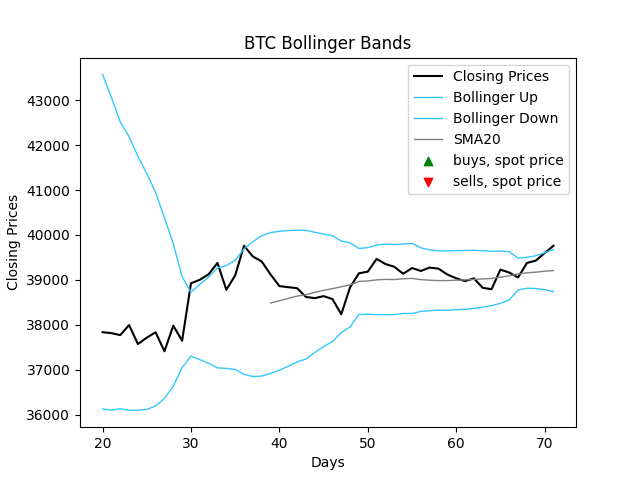
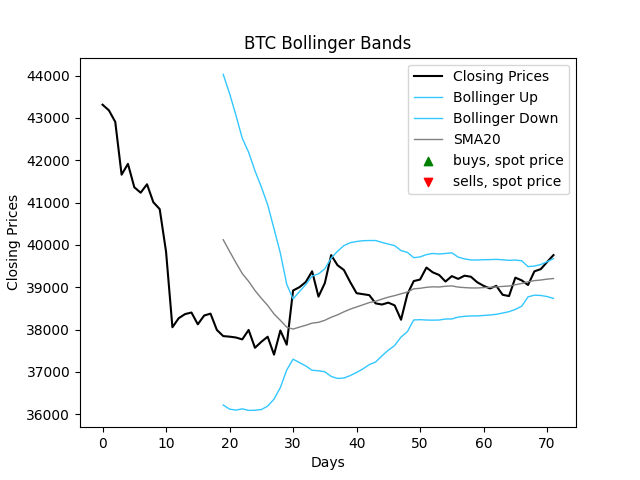
added functionality to store the image as a png in the file system.

diff --git a/tests.py b/tests.py
@@ -165,12 +165,12 @@ buys, sells, buy_price, sell_price = buySell(close, sma, bollinger_up, bollinger
 plt.title("BTC" + ' Bollinger Bands')
 plt.xlabel('Days')
 plt.ylabel('Closing Prices')
-plt.plot(close[20 :HISTORY], label='Closing Prices', c="#000000")
-plt.plot(bollinger_up[20 :HISTORY], label='Bollinger Up', c='#33C7FF', linewidth=1)
-plt.plot(bollinger_down[20 :HISTORY], label='Bollinger Down', c='#33C7FF', linewidth=1)
-plt.plot(get_sma(close[20 :HISTORY], RATE), label='SMA20', c='#808080', linewidth=1)
-plt.scatter(buys[20 :HISTORY], buy_price[20 :HISTORY], marker="^", c="g", label="buys, spot price") # add ^ smbols when on buy signal 
-plt.scatter(sells[20 :HISTORY], sell_price[20 :HISTORY], marker="v", c="r", label="sells, spot price") # add v smbols when on sell signal 
+plt.plot(close[:HISTORY], label='Closing Prices', c="#000000")
+plt.plot(bollinger_up[:HISTORY], label='Bollinger Up', c='#33C7FF', linewidth=1)
+plt.plot(bollinger_down[:HISTORY], label='Bollinger Down', c='#33C7FF', linewidth=1)
+plt.plot(get_sma(close[:HISTORY], RATE), label='SMA20', c='#808080', linewidth=1)
+plt.scatter(buys[:HISTORY], buy_price[:HISTORY], marker="^", c="g", label="buys, spot price") # add ^ smbols when on buy signal 
+plt.scatter(sells[:HISTORY], sell_price[:HISTORY], marker="v", c="r", label="sells, spot price") # add v smbols when on sell signal 
 plt.legend()
 plt.savefig("public/images/btc-1h.png")
 
